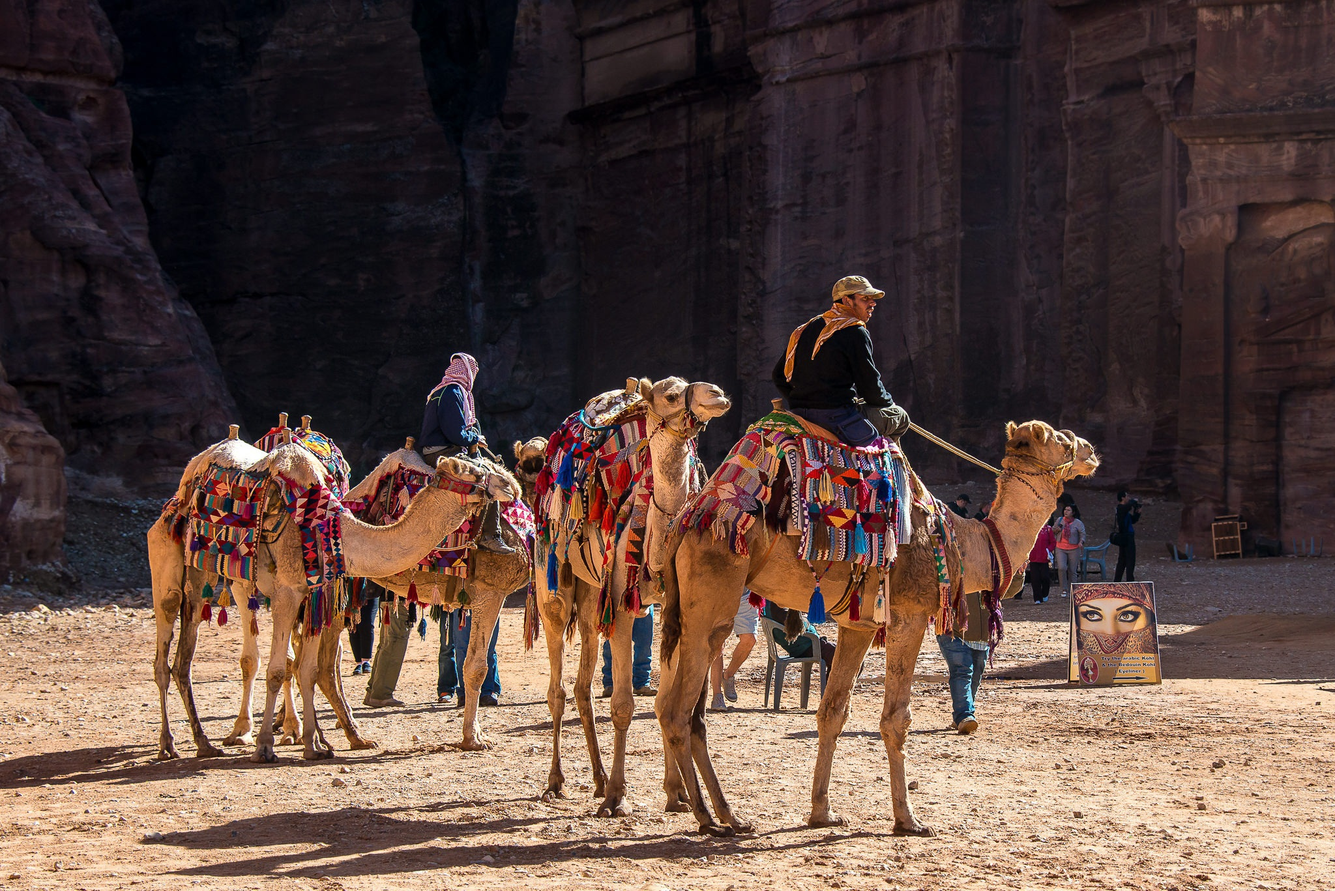
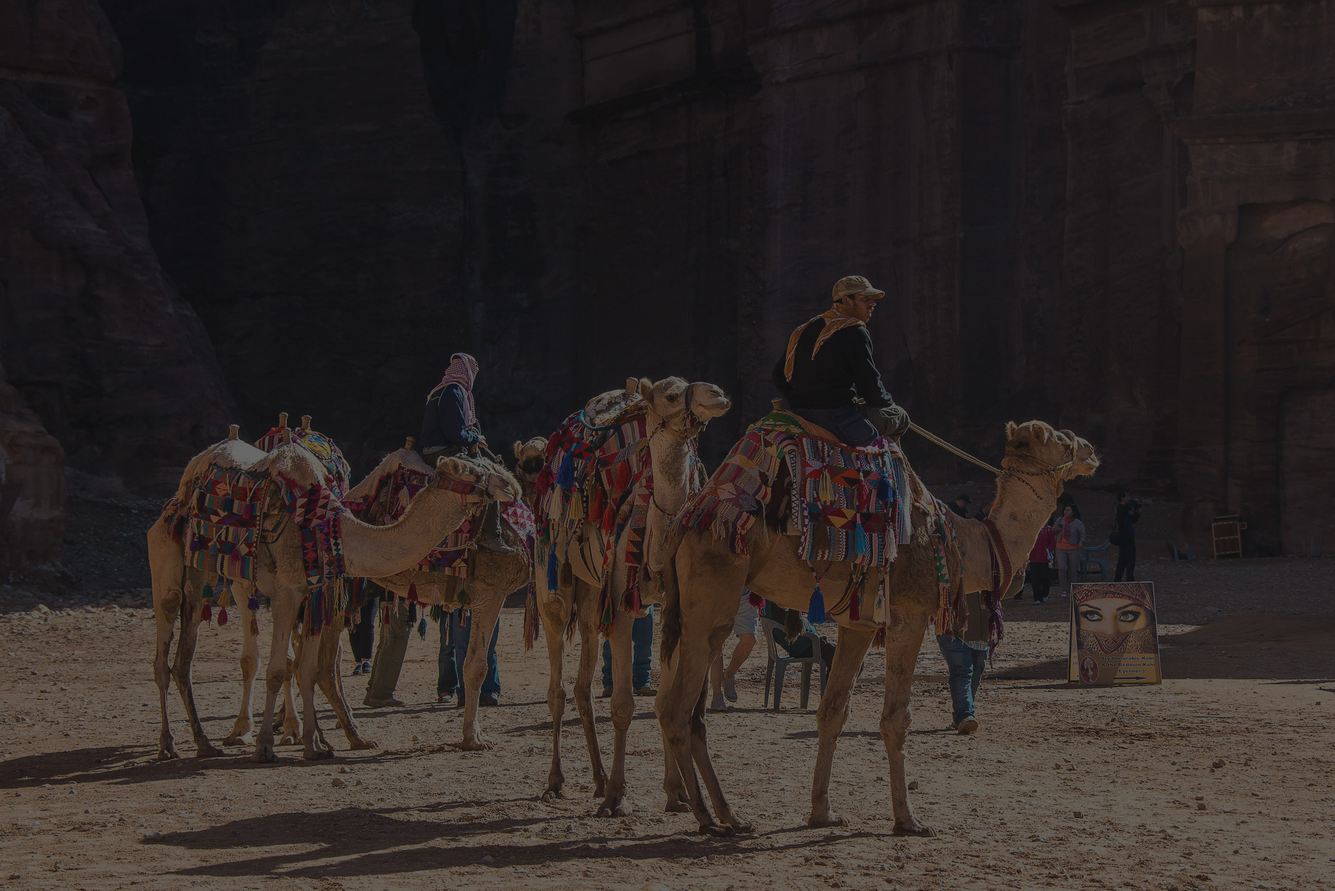
Task 07 terminada solo falta agregar footer cuando mi compañero entregue D:

diff --git a/src/pages/SignUp.jsx b/src/pages/SignUp.jsx
@@ -1,0 +1,65 @@
+import React from "react";
+import { json, NavLink } from "react-router-dom";
+import NavBar from "../components/NavBar";
+
+export default function SignUp() {
+
+    let fName = React.useRef ()
+    let lName = React.useRef ()
+    let mail = React.useRef ()
+    let pass = React.useRef ()
+    let form = React.useRef ()
+    function newUser (evento){
+        evento.preventDefault()
+        console.log(lName.current);
+    
+        let datosOfNewUser = {
+            Fname: fName.current.value,
+            lName: lName.current.value,
+            mail: mail.current.value,
+            pass: pass.current.value
+        } 
+    
+        localStorage.setItem ("datosOfNewUser",JSON.stringify(datosOfNewUser))
+        form.current.reset()
+    }
+
+  return (
+    <div className= "FirstContainer">
+        <NavBar></NavBar>
+    <div className="containerSingup">
+        <div className="containerForm">
+                    <h4 className="subtituloSignUp"><span className="colorNaranjaDeLinea">|</span> Create your account</h4>
+                <form ref={form} onSubmit= {newUser}>  
+                    <label>First Name
+                        <input ref={fName} type="text" placeholder="Enter your first name"/>
+                    </label>
+
+                    <label>Last Name
+                        <input ref={lName} type="text" placeholder="Enter your last name"/>
+                    </label>
+
+                    <label>Email
+                        <input ref={mail} type="text" placeholder="Enter your email"/>
+                    </label>
+
+                    <label>Password
+                        <input ref={pass} type="password" placeholder="Enter your password"/>
+                    </label>
+                    <button className="botonSubmit">Send</button>
+                </form>
+        </div>
+            <div className="ContainerBotonesSingUp">
+                <h4 className="subtituloSignUp"> <span className="colorNaranjaDeLinea">|</span> Already have an account?</h4>
+                <NavLink to="/signin">
+                <button className="botonSignIn">Sign in with account</button>
+                </NavLink>
+                <NavLink to="/signingoogle">
+                <button className="botonSignIn">Sign in with Google</button>
+                </NavLink>
+
+            </div>
+    </div>
+    </div>
+);
+}

diff --git a/src/App.css b/src/App.css
@@ -5,13 +5,12 @@
   font-family: 'Roboto', sans-serif;
 }
 
-.containerGrande {
+  .containerGrande {
   min-height: 100vh;
   width: 100%;
-  /* background-color: rgba(57, 53, 53, 0.362); */
+  background-color: rgba(57, 53, 53, 0.362);
   position: absolute;
-  /* z-index: 1; */
-}
+} 
 
 .FirstContainer {
   color: white;
@@ -155,18 +154,114 @@ h1 {
 .menuBurguer {
   width: 35px;
 }
+/*-------------------------------------------------------- EMPIEZA SING UP--------------------------------------------------------- */
+
+.containerSingup {
+  z-index: 1;
+  margin-top: 9rem;
+  display: flex;
+  flex-direction: row;
+  cursor: pointer;
+}
+
+.ContainerBotonesSingUp {
+  display: flex;
+  justify-content: center;
+  align-items: center;
+  flex-wrap: wrap;
+  z-index: 100;
+  cursor: pointer;
+}
+
+.ContainerBotonesSingUp h4 {
+  width: 100%;
+  cursor: pointer;
+
+}
+
+.subtituloSignUp {
+  text-align: center;
+  margin-top: 1rem;
+  font-size: 22px;
+}
+
+form {
+  display: flex;
+  flex-direction: column;
+  cursor: pointer;
+}
+
+label {
+  width: 85%;
+  margin: 1rem;
+  text-align: center;
+  font-size: 16px;
+  font-weight: 700;
+  cursor: pointer;
+}
+
+.containerForm {
+  width: 50%;
+  flex-grow: 1;
+}
+
+.botonSubmit {
+  border-radius: 6px;
+  border: none;
+  color: white;
+  background-color: #EA5318;
+  width: 300px;
+  height: 40px;
+  font-size: 14px;
+  font-weight: 700;
+  margin: 1rem;
+  cursor: pointer;
+}
+
+
+  .botonSignIn {
+    color: white;
+    background-color: #EA5318;
+    border-radius: 6px;
+    border: none;
+    width: 150px;
+    height: 40px;
+    padding: 10px;
+    margin: 8px;
+    font-size: 14px;
+    font-weight: 700;
+    cursor: pointer;
+
+  }
+
+input {
+  display: flex;
+  justify-content: center;
+  align-items: center;
+  margin: 8px;
+  width: 300px;
+  height: 35px;
+  border: none;
+  border-radius: 4px;
+  cursor: pointer;
+}
+
+/* --------------------------------------------------------------------------------------------------------------------------------- */
 
 
 @media (min-width: 769px) {
   .menuBurguer {
     display: none;
   }
+
 }
 @media (max-width: 768px) {
   nav {
     display: none;
   }
-
+  .containerSingup{
+    flex-direction: column;
+  }
 }
 
 

diff --git a/src/App.js b/src/App.js
@@ -10,16 +10,17 @@ import Main from './layouts/Main';
 import {Routes, Route} from 'react-router-dom' 
 import Home1 from './pages/Home1';
 import AutoToTop from './components/AutoToTop';
+import SignUp from './pages/SignUp';
+import LayoutSignUp from './layouts/LayoutSignUp';
 function App() {
   return (
     <>
     <AutoToTop></AutoToTop>
-    <Main>
     <Routes>
-    <Route path="/home" element={<Home1/>}>
-      </Route>
+      <Route path='' element= {<Main></Main>}></Route>
+      <Route path='/signup' element={<LayoutSignUp></LayoutSignUp>}></Route>
+      <Route path='/home' element= {<Main></Main>}></Route>
     </Routes>
-    </Main>
     </>
   );
 }

diff --git a/src/layouts/Main.jsx b/src/layouts/Main.jsx
@@ -1,8 +1,12 @@
 import React from 'react'
 import Home1 from '../pages/Home1'
+import SignUp from '../pages/SignUp'
+
 
 export default function Main() {
   return (
+    <>
     <Home1></Home1>
+    </>
   )
 }

diff --git a/src/layouts/LayoutSignUp.jsx b/src/layouts/LayoutSignUp.jsx
@@ -1,0 +1,8 @@
+import React from 'react'
+import SignUp from '../pages/SignUp'
+
+export default function LayoutSignUp() {
+  return (
+    <SignUp></SignUp>
+  )
+}
